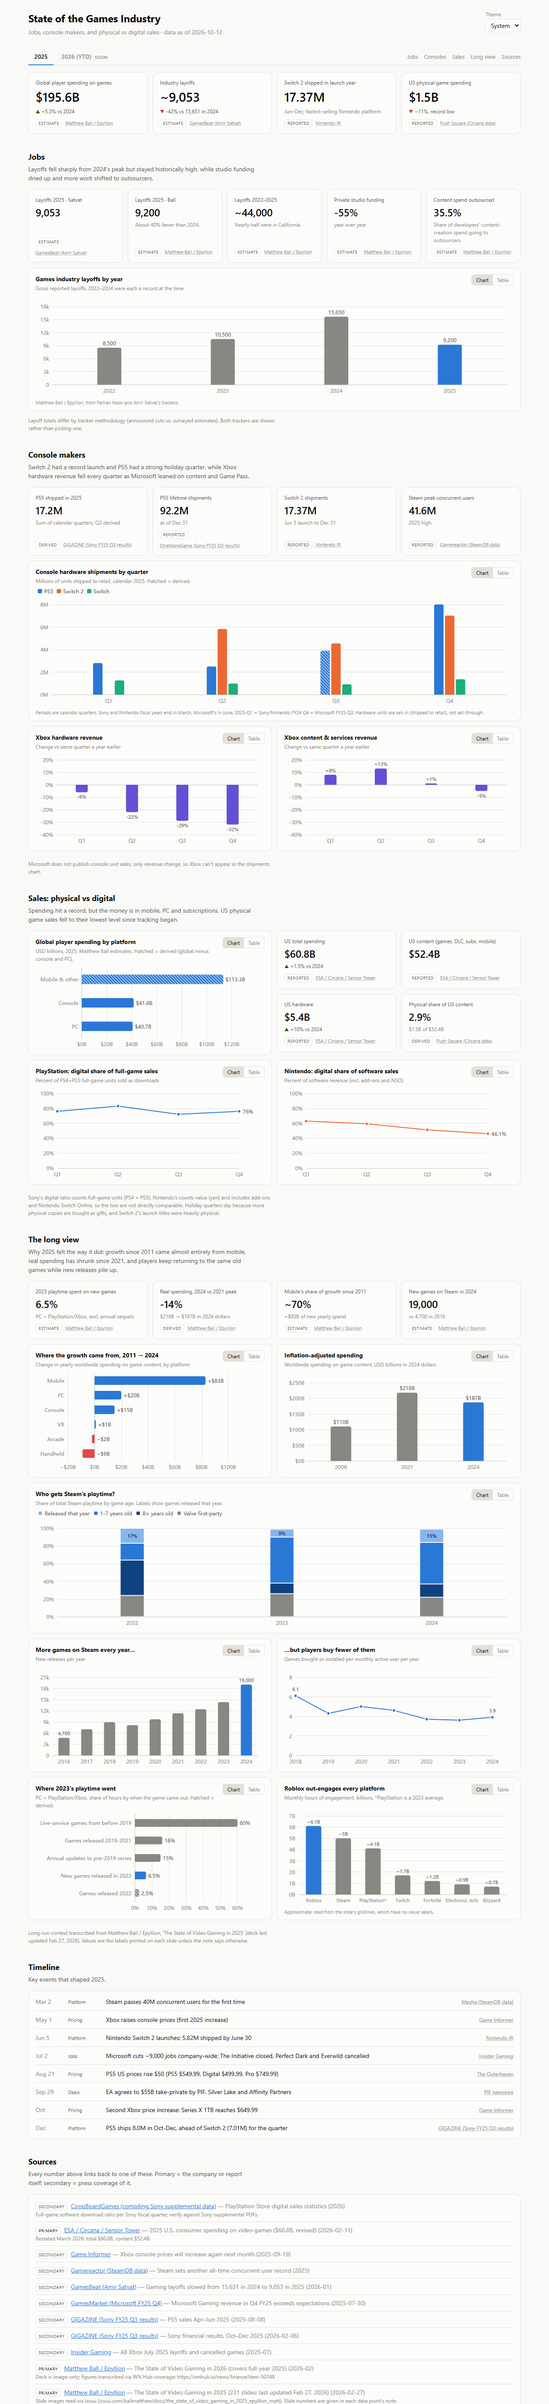
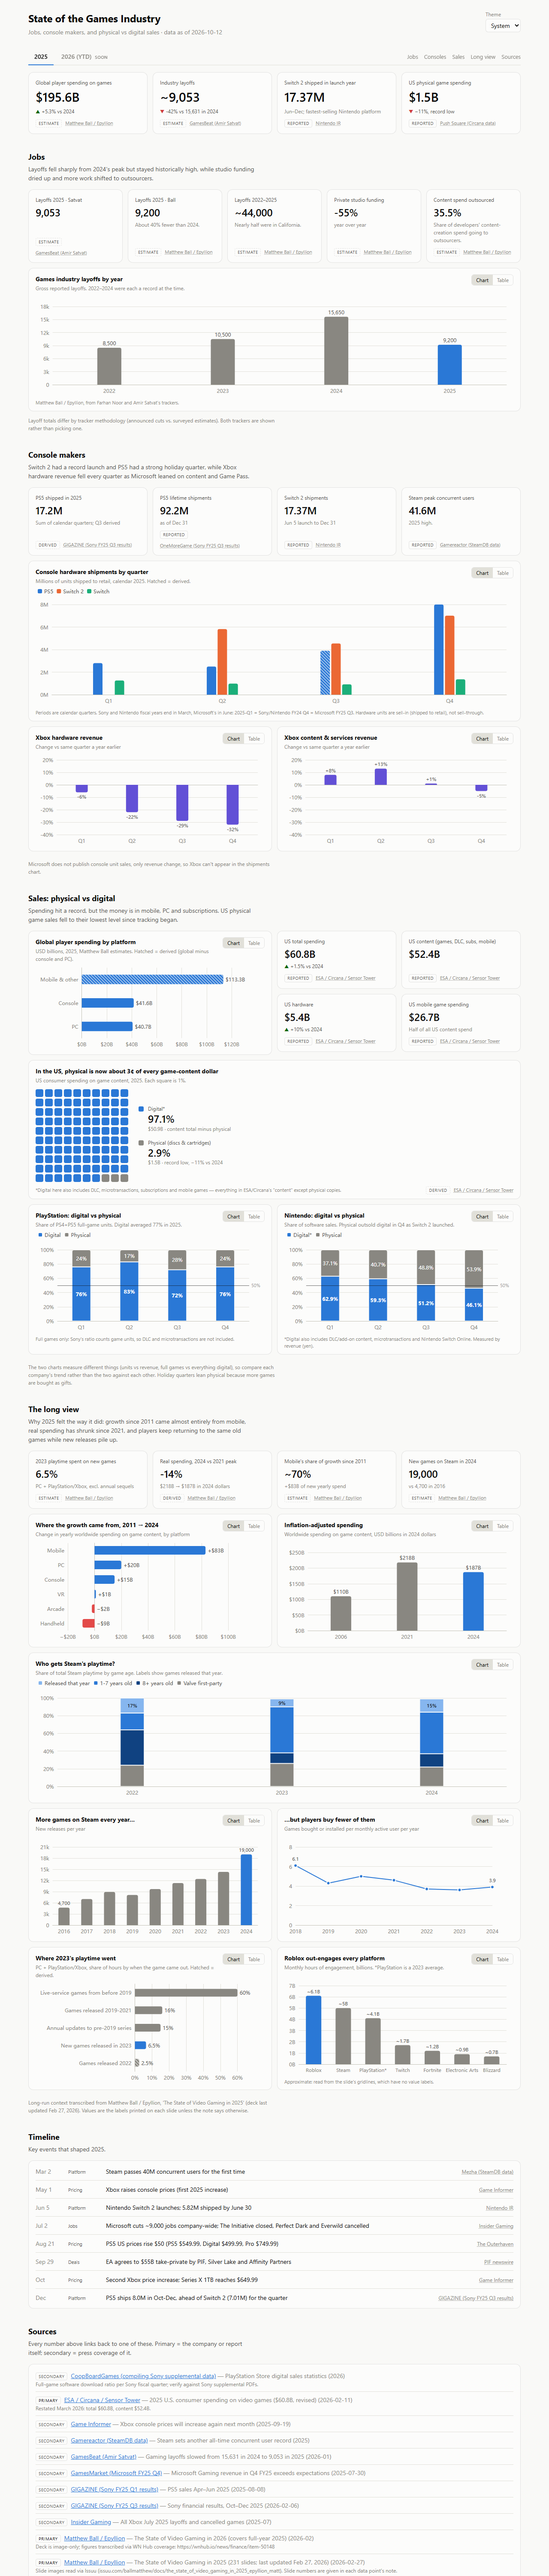
.

diff --git a/src/pages/YearDashboard.tsx b/src/pages/YearDashboard.tsx
@@ -5,7 +5,8 @@ import type { DomainFile, Observation } from "../data/schema";
 import { Chart } from "../components/Chart";
 import { Section, StatTile, SourceLink } from "../components/bits";
 import { LongView } from "./LongView";
-import { barItem, baseGrid, categoryAxis, legend, lineItem, tooltip, valueAxis } from "../charts";
+import { Waffle } from "../components/Waffle";
+import { barItem, baseGrid, categoryAxis, legend, tooltip, valueAxis } from "../charts";
 import type { Tokens } from "../theme";
 
 const fmtM = (v: number) => `${v.toFixed(2).replace(/\.?0+$/, "")}M`;
@@ -45,6 +46,7 @@ function Dashboard({ year, d }: { year: number; d: YearData }) {
   const usTotal = get(d.sales, "us_spend_total", "US", `${year}`);
   const usTotalPrev = get(d.sales, "us_spend_total", "US", `${year - 1}`);
   const usPhysical = get(d.sales, "us_physical_spend", "US", `${year}`);
+  const usMobile = get(d.sales, "us_mobile_spend", "US", `${year}`);
   const usContent = get(d.sales, "us_spend", "Content", `${year}`);
   const usHw = get(d.sales, "us_spend", "Hardware", `${year}`);
   const usHwPrev = get(d.sales, "us_spend", "Hardware", `${year - 1}`);
@@ -151,27 +153,63 @@ function Dashboard({ year, d }: { year: number; d: YearData }) {
     [d],
   );
 
-  const digitalOption = (entity: string) => (t: Tokens) => ({
-    grid: { ...baseGrid(), top: 12, right: 48 },
-    tooltip: { ...tooltip(t, d.sources, (v) => `${v}%`), axisPointer: { type: "line", lineStyle: { color: t.axis } } },
-    xAxis: { ...categoryAxis(t, qLabels), boundaryGap: false },
-    yAxis: { ...valueAxis(t, (v) => `${v}%`), min: 0, max: 100 },
+  // Physical share is the complement of the reported digital share, so it's derived.
+  const split = (entity: string) => {
+    const digital = series(d.sales, "digital_share_pct", entity, q);
+    const physical = digital.map((o): Observation | undefined =>
+      o && { ...o, value: Number((100 - o.value).toFixed(1)), confidence: "derived", note: "100% minus the reported digital share." },
+    );
+    return { digital, physical };
+  };
+  const psSplit = split("PlayStation");
+  const ninSplit = split("Nintendo");
+  const physicalWins = (s: ReturnType<typeof split>) => q.filter((_, i) => (s.physical[i]?.value ?? 0) > 50).map((p) => p.slice(5));
+
+  // Digital vs physical is a format comparison, not an entity one: digital takes
+  // the accent, physical the neutral, the same in every chart (and the waffle).
+  const splitOption = (s: ReturnType<typeof split>, digitalName: string) => (t: Tokens) => ({
+    grid: { ...baseGrid(), top: 40, right: 36 },
+    legend: { ...legend(t), data: [digitalName, "Physical"] },
+    tooltip: tooltip(t, d.sources, (v) => `${v}%`),
+    xAxis: categoryAxis(t, qLabels),
+    yAxis: { ...valueAxis(t, (v) => `${v}%`), max: 100 },
     series: [
       {
-        name: `${entity} digital share`,
-        type: "line",
-        color: t.entity(entity),
-        lineStyle: { width: 2 },
-        symbol: "circle",
-        symbolSize: 8,
-        itemStyle: { borderColor: t.surface, borderWidth: 2 },
-        data: series(d.sales, "digital_share_pct", entity, q).map(lineItem),
-        endLabel: { show: true, color: t.textSecondary, formatter: (p: { value: number }) => `${p.value}%` },
+        name: digitalName,
+        type: "bar",
+        stack: "format",
+        barMaxWidth: 44,
+        color: t.ramp[1],
+        itemStyle: { borderColor: t.surface, borderWidth: 1 },
+        data: s.digital.map((o) => barItem(t, o)),
+        label: { show: true, color: "#ffffff", fontWeight: 600, formatter: (p: { value: number }) => `${p.value}%` },
+        // 50% line: above it, physical outsold digital that quarter
+        markLine: {
+          silent: true,
+          z: 10,
+          symbol: "none",
+          lineStyle: { color: t.textPrimary, type: "solid", width: 1, opacity: 0.6 },
+          label: { show: true, position: "end", color: t.textSecondary, fontSize: 10, formatter: "50%" },
+          data: [{ yAxis: 50 }],
+        },
+      },
+      {
+        name: "Physical",
+        type: "bar",
+        stack: "format",
+        barMaxWidth: 44,
+        color: t.neutral,
+        itemStyle: { borderColor: t.surface, borderWidth: 1, borderRadius: [4, 4, 0, 0] },
+        data: s.physical.map((o) => ({ ...barItem(t, o), itemStyle: { decal: undefined } })),
+        label: { show: true, color: "#ffffff", formatter: (p: { value: number }) => `${p.value}%` },
       },
     ],
   });
-  const psDigitalOption = useCallback(digitalOption("PlayStation"), [d]);
-  const ninDigitalOption = useCallback(digitalOption("Nintendo"), [d]);
+  const psSplitOption = useCallback(splitOption(psSplit, "Digital"), [d]);
+  const ninSplitOption = useCallback(splitOption(ninSplit, "Digital*"), [d]);
+  const ninPhysicalWins = physicalWins(ninSplit);
+  const psDigitalAvg = sum(psSplit.digital) / psSplit.digital.filter(Boolean).length;
+  const usDigital = usContent && usPhysical ? Number((usContent.value - usPhysical.value).toFixed(1)) : null;
 
   const usedSources = [...new Set([...d.consoles.observations, ...d.sales.observations, ...d.jobs.observations, ...d.context.observations, ...d.events].map((o) => o.sourceId))]
     .map((id) => d.sources.get(id)!)
@@ -268,28 +306,51 @@ function Dashboard({ year, d }: { year: number; d: YearData }) {
             {usHw && usHwPrev && (
               <StatTile label="US hardware" value={fmtB(usHw.value)} delta={`+${pctChange(usHwPrev.value, usHw.value).toFixed(0)}% vs ${year - 1}`} deltaTone="up" confidence={usHw.confidence} source={src(usHw)} />
             )}
-            {usPhysical && usContent && (
-              <StatTile label="Physical share of US content" value={`${((usPhysical.value / usContent.value) * 100).toFixed(1)}%`} detail={`${fmtB(usPhysical.value)} of ${fmtB(usContent.value)}`} confidence="derived" source={src(usPhysical)} />
-            )}
+            {usMobile && <StatTile label="US mobile game spending" value={fmtB(usMobile.value)} detail="Half of all US content spend" confidence={usMobile.confidence} source={src(usMobile)} />}
           </div>
         </div>
+        {usDigital !== null && usContent && usPhysical && (
+          <Waffle
+            title={`In the US, physical is now about ${Math.round((usPhysical.value / usContent.value) * 100)}¢ of every game-content dollar`}
+            subtitle={`US consumer spending on game content, ${year}. Each square is 1%.`}
+            parts={[
+              { label: "Digital*", value: Number(((usDigital / usContent.value) * 100).toFixed(1)), detail: `${fmtB(usDigital)} · content total minus physical`, tone: "accent" },
+              { label: "Physical (discs & cartridges)", value: Number(((usPhysical.value / usContent.value) * 100).toFixed(1)), detail: `${fmtB(usPhysical.value)} · record low, −11% vs ${year - 1}`, tone: "neutral" },
+            ]}
+            footnote={<>*Digital here also includes DLC, microtransactions, subscriptions and mobile games — everything in ESA/Circana's "content" except physical copies.</>}
+            confidence="derived"
+            source={src(usContent)}
+          />
+        )}
         <div className="pair">
           <Chart
-            title="PlayStation: digital share of full-game sales"
-            subtitle="Percent of PS4+PS5 full-game units sold as downloads"
-            height={220}
-            option={psDigitalOption}
-            table={{ columns: ["Quarter", "Digital %"], rows: series(d.sales, "digital_share_pct", "PlayStation", q).map((o, i) => [q[i], o?.value ?? "—"]) }}
+            title="PlayStation: digital vs physical"
+            subtitle={`Share of PS4+PS5 full-game units. Digital averaged ${psDigitalAvg.toFixed(0)}% in ${year}.`}
+            height={240}
+            option={psSplitOption}
+            table={{ columns: ["Quarter", "Digital %", "Physical % (derived)"], rows: q.map((p, i) => [p, psSplit.digital[i]?.value ?? "—", psSplit.physical[i]?.value ?? "—"]) }}
+            footnote="Full games only: Sony's ratio counts game units, so DLC and microtransactions are not included."
           />
           <Chart
-            title="Nintendo: digital share of software sales"
-            subtitle="Percent of software revenue (incl. add-ons and NSO)"
-            height={220}
-            option={ninDigitalOption}
-            table={{ columns: ["Quarter", "Digital %", "Digital sales (¥B)"], rows: q.map((p) => [p, get(d.sales, "digital_share_pct", "Nintendo", p)?.value ?? "—", get(d.sales, "digital_sales", "Nintendo", p)?.value ?? "—"]) }}
+            title="Nintendo: digital vs physical"
+            subtitle={
+              ninPhysicalWins.length
+                ? `Share of software sales. Physical outsold digital in ${ninPhysicalWins.join(", ")} as Switch 2 launched.`
+                : "Share of software sales."
+            }
+            height={240}
+            option={ninSplitOption}
+            table={{
+              columns: ["Quarter", "Digital* %", "Physical % (derived)", "Digital sales (¥B)"],
+              rows: q.map((p, i) => [p, ninSplit.digital[i]?.value ?? "—", ninSplit.physical[i]?.value ?? "—", get(d.sales, "digital_sales", "Nintendo", p)?.value ?? "—"]),
+            }}
+            footnote="*Digital also includes DLC/add-on content, microtransactions and Nintendo Switch Online. Measured by revenue (yen)."
           />
         </div>
-        <p className="note">{d.sales.notes} Holiday quarters dip because more physical copies are bought as gifts, and Switch 2's launch titles were heavily physical.</p>
+        <p className="note">
+          The two charts measure different things (units vs revenue, full games vs everything digital), so compare each company's trend rather than the two against each other. Holiday quarters lean physical
+          because more games are bought as gifts.
+        </p>
       </Section>
 
       <LongView d={d} />

diff --git a/src/components/Waffle.tsx b/src/components/Waffle.tsx
@@ -1,0 +1,74 @@
+import type { ReactNode } from "react";
+import type { Confidence, Source } from "../data/schema";
+import { ConfidenceBadge, SourceLink } from "./bits";
+
+export interface WafflePart {
+  label: ReactNode;
+  value: number; // share in percent; parts should sum to ~100
+  detail: string;
+  tone: "accent" | "neutral";
+}
+
+/** 10×10 grid, one square per percent: a part-to-whole that makes a tiny share visible. */
+export function Waffle({
+  title,
+  subtitle,
+  parts,
+  footnote,
+  confidence,
+  source,
+}: {
+  title: string;
+  subtitle?: ReactNode;
+  parts: WafflePart[];
+  footnote?: ReactNode;
+  confidence: Confidence;
+  source?: Source;
+}) {
+  // Round to whole squares, giving any rounding remainder to the largest part.
+  const counts = parts.map((p) => Math.round(p.value));
+  const largest = counts.indexOf(Math.max(...counts));
+  counts[largest] += 100 - counts.reduce((a, b) => a + b, 0);
+  const squares = parts.flatMap((p, i) => Array.from({ length: counts[i] }, () => p));
+
+  return (
+    <figure className="card chart waffle-card">
+      <header className="chart-head">
+        <div>
+          <h3>{title}</h3>
+          {subtitle && <p className="sub">{subtitle}</p>}
+        </div>
+      </header>
+      <div className="waffle-body">
+        <div
+          className="waffle"
+          role="img"
+          aria-label={parts.map((p) => `${typeof p.label === "string" ? p.label : ""} ${p.value}%`).join(", ")}
+        >
+          {squares.map((p, i) => (
+            <span key={i} className={`sq ${p.tone}`} title={`${p.detail}`} />
+          ))}
+        </div>
+        <ul className="waffle-legend">
+          {parts.map((p, i) => (
+            <li key={i}>
+              <span className={`sw ${p.tone}`} aria-hidden />
+              <div>
+                <div className="wl-label">{p.label}</div>
+                <div className="wl-value">{p.value}%</div>
+                <div className="wl-detail">{p.detail}</div>
+              </div>
+            </li>
+          ))}
+        </ul>
+      </div>
+      <figcaption className="foot">
+        {footnote}
+        <span className="tile-meta">
+          <ConfidenceBadge c={confidence} />
+          {source && <SourceLink source={source} />}
+        </span>
+      </figcaption>
+    </figure>
+  );
+}

diff --git a/src/styles.css b/src/styles.css
@@ -184,3 +184,23 @@ th { color: var(--text-muted); font-weight: 500; }
   .timeline .cat { display: none; }
   .timeline .src { grid-column: 2; }
 }
+
+/* Waffle: one square per percent */
+.waffle-body { display: flex; gap: 24px; align-items: center; flex-wrap: wrap; padding: 8px 0 4px; }
+.waffle { display: grid; grid-template-columns: repeat(10, 18px); gap: 4px; }
+.waffle .sq { width: 18px; height: 18px; border-radius: 4px; }
+.sq.accent, .sw.accent { background: var(--ramp-2); }
+.sq.neutral, .sw.neutral { background: var(--neutral); }
+.waffle-legend { list-style: none; margin: 0; padding: 0; display: flex; flex-direction: column; gap: 14px; min-width: 0; flex: 1; }
+.waffle-legend li { display: flex; gap: 10px; align-items: flex-start; }
+.waffle-legend .sw { width: 12px; height: 12px; border-radius: 3px; margin-top: 4px; flex-shrink: 0; }
+.wl-label { font-size: 12px; color: var(--text-secondary); }
+.wl-value { font-size: 24px; font-weight: 600; line-height: 1.2; }
+.wl-detail { font-size: 12px; color: var(--text-muted); }
+.waffle-card .foot { display: flex; justify-content: space-between; gap: 12px; flex-wrap: wrap; align-items: center; }
+.waffle-card .tile-meta { padding-top: 0; margin-top: 0; }
+.asterisk-note { color: var(--text-secondary); font-size: 12px; margin: 4px 0 0; }
+@media (max-width: 760px) {
+  .waffle { grid-template-columns: repeat(10, 14px); gap: 3px; }
+  .waffle .sq { width: 14px; height: 14px; }
+}

diff --git a/src/components/Chart.tsx b/src/components/Chart.tsx
@@ -1,12 +1,12 @@
 import { useEffect, useRef, useState, type ReactNode } from "react";
 import * as echarts from "echarts/core";
 import { BarChart, LineChart } from "echarts/charts";
-import { GridComponent, LegendComponent, TooltipComponent, AriaComponent } from "echarts/components";
+import { GridComponent, LegendComponent, TooltipComponent, AriaComponent, MarkLineComponent } from "echarts/components";
 import { SVGRenderer } from "echarts/renderers";
 import type { EChartsCoreOption } from "echarts/core";
 import { useTokens, type Tokens } from "../theme";
 
-echarts.use([BarChart, LineChart, GridComponent, LegendComponent, TooltipComponent, AriaComponent, SVGRenderer]);
+echarts.use([BarChart, LineChart, GridComponent, LegendComponent, TooltipComponent, AriaComponent, MarkLineComponent, SVGRenderer]);
 
 export interface TableData {
   columns: string[];
